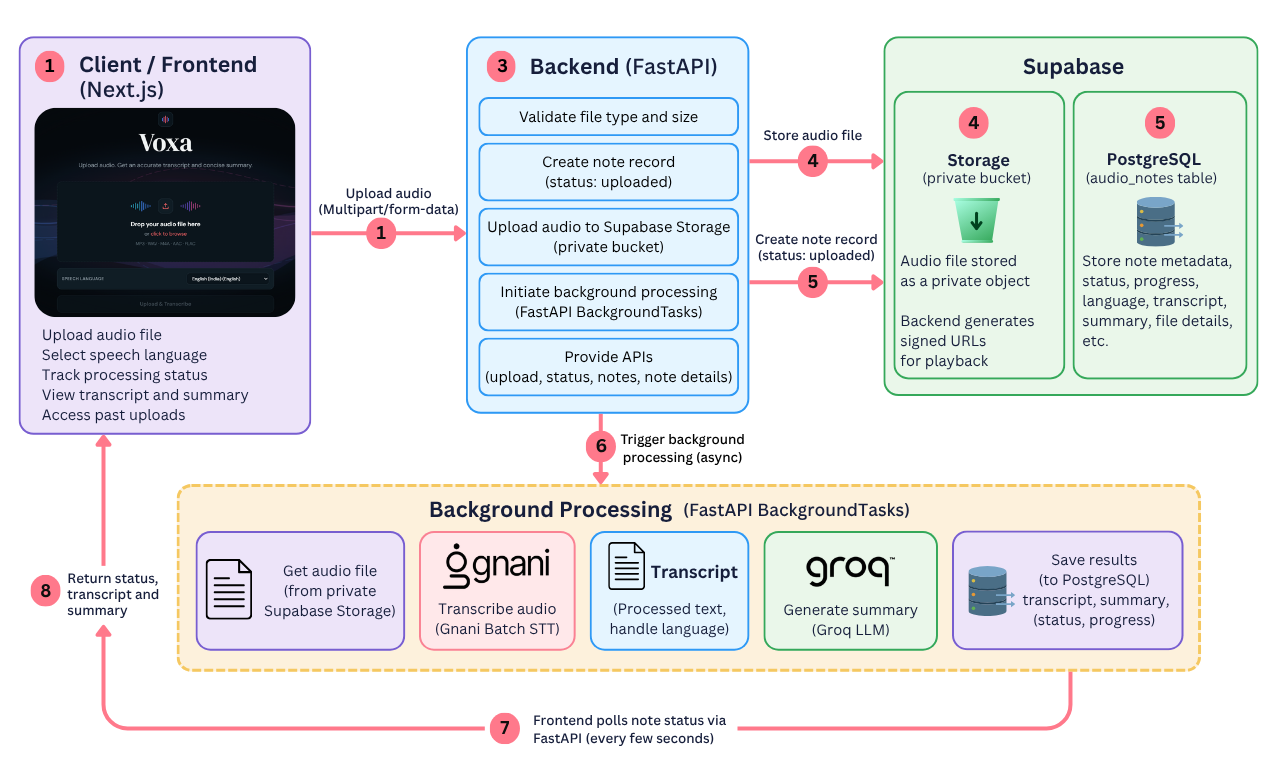
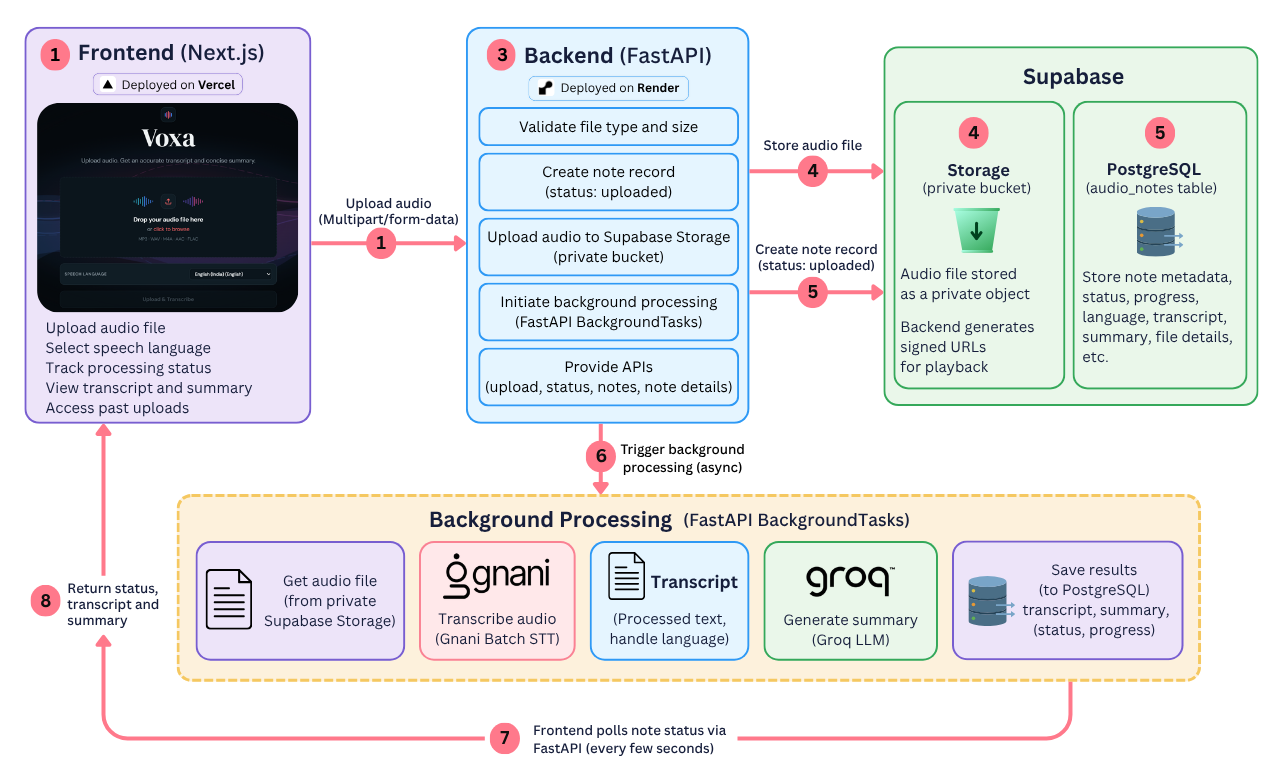
Update architecture diagram and deployment details

diff --git a/frontend/src/app/architecture/page.tsx b/frontend/src/app/architecture/page.tsx
@@ -101,7 +101,7 @@ export default function ArchitecturePage() {
                 </h3>
               </div>
               <p className="text-xs text-[var(--text-secondary)] font-sans leading-relaxed">
-                The user selects an audio file and speech language in the Next.js frontend. The file is sent to the FastAPI backend as a multipart upload.
+                The user selects an audio file and speech language in the Next.js frontend (deployed on Vercel). The file is sent to the FastAPI backend (deployed on Render) as a multipart upload.
               </p>
 
               {/* Connector: 1 -> 2 (Desktop: Right arrow) */}
@@ -374,14 +374,17 @@ export default function ArchitecturePage() {
           <h2 className="text-xs font-semibold uppercase tracking-wider text-[var(--text-muted)] font-sans">
             Core Technology Stack
           </h2>
+          <p className="text-xs text-[var(--text-secondary)] font-sans leading-relaxed">
+            The frontend is a Next.js application deployed on Vercel that communicates with the deployed FastAPI backend on Render through its API. Supabase provides the PostgreSQL database and private audio Storage, while the backend handles background processing and communicates with Gnani Batch STT and Groq.
+          </p>
           <div className="grid grid-cols-2 sm:grid-cols-5 gap-3 text-center text-xs">
             <div className="rounded-xl border border-[var(--border)] bg-[var(--surface)] p-3.5 shadow-xs">
               <p className="font-sans font-semibold text-[var(--text-primary)]">Next.js</p>
-              <p className="text-[10px] text-[var(--text-muted)] mt-0.5 font-mono">App Router · UI</p>
+              <p className="text-[10px] text-[var(--text-muted)] mt-0.5 font-mono">App Router · Vercel</p>
             </div>
             <div className="rounded-xl border border-[var(--border)] bg-[var(--surface)] p-3.5 shadow-xs">
               <p className="font-sans font-semibold text-[var(--text-primary)]">FastAPI</p>
-              <p className="text-[10px] text-[var(--text-muted)] mt-0.5 font-mono">REST &amp; Background</p>
+              <p className="text-[10px] text-[var(--text-muted)] mt-0.5 font-mono">Render · Background</p>
             </div>
             <div className="rounded-xl border border-[var(--border)] bg-[var(--surface)] p-3.5 shadow-xs">
               <p className="font-sans font-semibold text-[var(--text-primary)]">Supabase</p>
